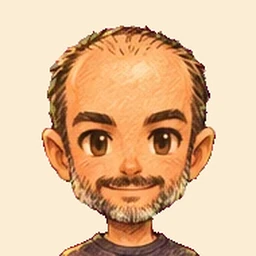
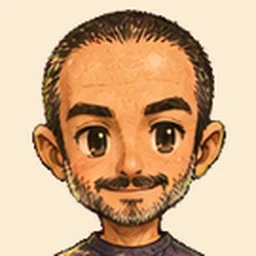
tomframes3: new walking face for Tom's plain dialogue portrait, no stretch fade
Claude-Session: https://claude.ai/code/session_01RXeukFUy1ZAKH1RRjtXyko

diff --git a/engine/overworld.js b/engine/overworld.js
@@ -27,7 +27,7 @@ function fitDialogText(full) {
 const DIALOG_PORTRAIT_IDS={'pip':'npc_pip','moss':'npc_moss','dot':'npc_dot','gus':'npc_gus','bean':'npc_bean','reel':'npc_reel','principal pruitt':'npc_pruitt','pruitt':'npc_pruitt','mr. delgado':'npc_delgado','mrs. kowalski':'npc_kowalski','grandpa ike':'npc_ike','mr. halverson':'npc_halverson','bun':'npc_bun','page':'npc_page','fern':'npc_fern','kit':'npc_kit','oolong':'npc_oolong','luna':'npc_luna','penny':'npc_penny','nickel':'npc_nickel','sal':'npc_sal','sol':'npc_sol','mrs. alvarez':'npc_alvarez','bernadette':'npc_bernadette','don beto':'npc_beto','bev':'npc_bev','boomie':'npc_boomie','doña carmen':'npc_carmen','chet':'npc_chet','claudia':'npc_claudia','daisy':'npc_daisy','dakota':'npc_dakota','dana':'npc_dana','dash':'npc_dash','dolores':'npc_dolores','jojo':'npc_jojo','jordan':'npc_jordan','juniper':'npc_juniper','kenji':'npc_kenji','kevin':'npc_kevin','kiki':'npc_kiki','larry':'npc_larry','marguerite':'npc_marguerite','marisol':'npc_marisol','marlowe':'npc_marlowe','mateo':'npc_mateo','michael':'npc_michael','miss odette':'npc_odette','priya':'npc_priya','ray':'npc_ray','ryan':'npc_ryan','sage':'npc_sage','sam':'npc_sam','skye':'npc_skye','sofi':'npc_sofi','toni':'npc_toni','tony':'npc_tony','vance':'npc_vance','julian vance':'npc_vance','long coat':'npc_vance','mr. washington':'npc_washington','wes':'npc_wes','yesenia':'npc_yesenia',tom:'tom',grace:'grace',rose:'rose',amy:'amy',justin:'justin',olivia:'olivia',deedee:'deedee',boppy:'boppy',tnb:'tnb',nara:'nara','aunt ellie':'ellie',ellie:'ellie','mudling':'foe_mudling','big mudling':'foe_mudling','skeeter swarm':'foe_skeeter','pond grump':'foe_grump','the big one':'foe_bigone','canyon coyote':'foe_coyote','smoglet':'foe_smoglet','ticket flurry':'foe_tickets','the big shake':'foe_bigshake','soggy sock':'foe_soggysock','tangle':'foe_tangle','snag':'foe_snag','old iron-gill':'foe_irongill','old ironbelly':'foe_ironbelly','wet blanket':'foe_wetblanket','the draft':'foe_thedraft','the picky eater':'foe_pickyeater','boom mic moth':'foe_boommoth','clapper snapper':'foe_clapper','cue card crab':'foe_cuecrab','the director’s cut':'foe_directorscut','the director':'foe_directorscut','chairman cheeks':'foe_chairman','cheek stuffer':'foe_cheekstuffer','peanut gallery':'foe_peanutgallery','twig spy':'foe_twigspy','dodgeball dread':'foe_dodgeball','glitter glue':'foe_glitterglue','tardy bell':'foe_tardybell','the red pen':'foe_redpen','the cliffhanger':'foe_cliffhanger','the know-it-all':'foe_knowitall','pop-up panic':'foe_popup','the unread':'foe_unread','the hanger-on':'foe_coathanger','the sore loser':'foe_soreloser','the wallflower':'foe_wallflower','the mirrorball':'foe_mirrorball','the long line':'foe_longline','the unclaimed':'foe_unclaimed','the armrest hog':'foe_armresthog','the last call':'foe_lastcall','gridlock prime':'foe_gridlockprime','final call':'foe_finalcall','standby sprite':'foe_standbysprite','hush-9':'foe_hush9final','drill worm':'foe_drillworm','oblivion censor':'foe_censor','forever engine':'foe_leviathan','brain freeze':'foe_brainfreeze','slushie slug':'foe_slushslug','sprinkle gremlin':'foe_gremlin','cone head':'foe_conehead','cone head b':'foe_conehead'};
 // People speak with a face cut from their walk sheet (portraits/talk/<id>.webp, tools/sprite-bake/bake_talk_faces.py) or, on a mood line, from their emotion
 // sheet (engine/emotions.js). Hero paintings (PORTRAITS) are for the status screen and battle menus only (Tom 2026-11-11). Monsters keep their foe_ crops.
-const TALK_V='tomframes2';
+const TALK_V='tomframes3';
 function dialogPortraitSrc(id) {
   if(!id) return '';
   if(id.startsWith('foe_')) return PORTRAITS[id]||'';

diff --git a/index.html b/index.html
@@ -1452,7 +1452,7 @@ html.landscape:not(.tablet):not(.duo) #battle.v2 .b2-x{font-size:17px}html.lands
 <script src="data/battle-icons.js?v=warmth1"></script>
 <script src="data/battle-emoji.js?v=warmth1"></script>
 <script src="engine/battle-pictures.js?v=b3s23a"></script>
-<script src="engine/overworld.js?v=tomframes2"></script>
+<script src="engine/overworld.js?v=tomframes3"></script>
 <script src="data/font.js"></script>
 <script src="data/overworld-sprites.js"></script>
 <script src="engine/tiles.js?v=tom4"></script>
@@ -1753,7 +1753,7 @@ html.landscape:not(.tablet):not(.duo) #battle.v2 .b2-x{font-size:17px}html.lands
 <script src="data/foes/acornagent-hires.js"></script>
 <script src="data/foes/extra-hires.js"></script>
 <script src="data/foes/use.js"></script>
-<script src="engine/town-render.js?v=tomstretch4"></script>
+<script src="engine/town-render.js?v=tomframes3"></script>
 <script src="engine/la-render.js"></script>
 <script src="engine/marsh-render.js"></script>
 <script src="engine/backlot-render.js"></script>
@@ -1768,7 +1768,7 @@ html.landscape:not(.tablet):not(.duo) #battle.v2 .b2-x{font-size:17px}html.lands
 <script src="data/hollow-trail.js?v=qa-coh03"></script>
 <script src="data/airport-behind.js?v=airport1"></script>
 <script src="engine/draw.js?v=qa-txt04"></script>
-<script src="engine/intro.js?v=tomstretch5"></script>
+<script src="engine/intro.js?v=tomframes3"></script>
 <script src="data/flight-art.js?v=flight14"></script>
 <script src="engine/flight-art.js?v=flight11"></script>
 <script src="engine/travel.js?v=reports-2026-11-21"></script>
@@ -1930,7 +1930,7 @@ html.landscape:not(.tablet):not(.duo) #battle.v2 .b2-x{font-size:17px}html.lands
 <script src="engine/emotions.js?v=tomstretch4"></script>
 <script src="engine/script-edits.js?v=scripted2"></script><!-- Script Editor overlay: Tom's line edits applied before a scene plays (script.html) --><!-- mood faces and poses in story dialogue (batch 0: chapter 1) -->
 <script src="engine/tapwalk.js?v=bossbig1"></script><!-- tap to walk -->
-<script src="data/build-history.js?v=vfxlib3"></script><!-- build names and times (tools/build_history.py) -->
+<script src="data/build-history.js?v=tomframes3"></script><!-- build names and times (tools/build_history.py) -->
 <script src="engine/build-history.js?v=buildpill1"></script><!-- build label on the welcome screen and menu, tap for the build history -->
 <script src="engine/m2-core.js?v=menucrease1"></script><!-- the main menu (menu1, the only menu since menu4) -->
 <script src="engine/m2-family.js?v=reports-2026-11-21c"></script><!-- its Family page -->
@@ -1940,7 +1940,7 @@ html.landscape:not(.tablet):not(.duo) #battle.v2 .b2-x{font-size:17px}html.lands
 <script src="engine/block-break.js?v=ch7t1"></script><!-- breaking an orange block: coin, cracks, colour ring, shrink-back, encounters off (ch6build stage 2) -->
 <script src="engine/scene-props.js?v=crispfix1"></script><!-- drawn stand-in props a scene can put on a map: the chart, Rose rolled up, the gold ball, bulbs (ch7build stage 2) -->
 <script src="engine/video-call.js?v=ch6s4"></script><!-- the video call at the end of chapter 6: Long Island seen from Tom's porch (ch6build stage 4) -->
-<script src="engine/main.js?v=vfxlib3"></script>
+<script src="engine/main.js?v=tomframes3"></script>
 <script src="engine/music.js"></script>
 <script src="data/songs.js"></script>
 <script src="engine/music-clips.js?v=adminvol1"></script>

diff --git a/engine/intro.js b/engine/intro.js
@@ -151,10 +151,8 @@ const STRETCH_SEQ=[['st_stiff',0],['st_rise',.1],['st_reach',.22],['st_bendl',.4
 function stretchStep() {
   return {t:0,start(){ this.t=0; this.s2=false; player.facing='down'; player.scenePose={f:'st_stiff'}; snd.stretch(); },
     update(dt){ this.t+=dt; if(!this.s2&&this.t>STRETCH_DUR*.75) { this.s2=true; snd.stretch(); }
-      const u=Math.min(1,this.t/STRETCH_DUR); let f='st_stiff',prev=null,at0=0,i=0; for(const [n,at] of STRETCH_SEQ) { if(u>=at) { prev=i?STRETCH_SEQ[i-1][0]:null; f=n; at0=at; } i++; }
-      // tomstretch4: each pose fades in over the first 0.015 of the stretch (about 40 ms; tomstretch5 cut it from 0.06 because it looked strange) (eased) on top of the one before it, so the poses run into each other (Tom 11-26: "merge seamlessly")
-      const m=Math.min(1,(u-at0)/.015),mix=m*m*(3-2*m);
-      player.scenePose=prev&&mix<1?{f,prev,mix}:{f};
+      const u=Math.min(1,this.t/STRETCH_DUR); let f='st_stiff'; for(const [n,at] of STRETCH_SEQ) if(u>=at) f=n;
+      player.scenePose={f};
       if(u>=1) { player.scenePose=null; return true; } return false; }};
 }
 // Little character sounds for the opening, built on the game's synth (tone and noise).

diff --git a/engine/town-render.js b/engine/town-render.js
@@ -110,11 +110,7 @@ function drawSheetActor(a,set) {
   activeTint=noTint?null:(m?garmentTint(bp?'bt':'ow',m.id,memberTopColor(m)):null);
   if(rider&&!painted) drawOwRider(rider,a.facing,cx,base-hk,true,k);
   activeTint=noTint?null:(m?garmentTint(bp?'bt':'ow',m.id,memberTopColor(m)):null);
-  const P0=a.scenePose,ga0=gfx.globalAlpha; let pb=null;
-  if(bp&&bp.story&&P0&&P0.prev&&P0.mix<1) { a.scenePose={f:P0.prev,mid:P0.mid,emo:P0.emo}; try { pb=scenePoseDraw(a,set,k); } finally { a.scenePose=P0; } }   // tomstretch4: the pose before, under the one fading in
-  if(pb) { const pw=pb.rows[0].length*kd,ph2=pb.rows.length*kd; drawSprite(pb.rows,pb.pal,cx-Math.floor(pw/2),Math.round(base-ph2),kd); gfx.globalAlpha=Math.max(.02,P0.mix); }
   drawSprite(fr,bp?bp.pal:set.pal,cx-Math.floor(wk/2),Math.round(base-hk),kd);
-  gfx.globalAlpha=ga0;
   if(rider&&!painted) drawOwRider(rider,a.facing,cx,base-hk,false,k);
   activeTint=null;
   if(lf&&lf.pip) drawLifePip(lf.pip,lf.pt,cx,base-hk,k);

diff --git a/data/build-history.js b/data/build-history.js
@@ -1,5 +1,6 @@
 // Generated by tools/build_history.py. Do not edit by hand. Newest first.
 const BUILD_HISTORY=[
+{"tag":"tomframes3","at":"2026-11-26T09:52:09-08:00","what":"Tom's plain dialogue face is the new walking face; the stretch fade is gone","card":"c-tomframes3","theme":"Characters"},
 {"tag":"vfxlib3","at":"2026-11-26T09:36:35-08:00","what":"The 22 library set-pieces are built, so all 37 Stage 2C library effects are drawn","card":"c-vfxlib3","theme":"Battle Animations"},
 {"tag":"tomstretch5","at":"2026-11-26T09:33:17-08:00","what":"The stretch's pose fade is about 4 times shorter","card":"c-tomstretch5","theme":"Characters"},
 {"tag":"openzoom1","at":"2026-11-26T09:23:23-08:00","what":"Chapter 1 opens with a camera zoom into the taxi company and a medium fade","card":"c-openzoom","theme":"Story and Dialogue"},

diff --git a/engine/main.js b/engine/main.js
@@ -110,7 +110,7 @@ startSplash();
   const d=document.createElement('button');
   d.type='button'; d.id='build-stamp'; d.setAttribute('aria-label','Build history');
   // On an iPhone Duo the stamp also shows the page size and pose the game measured, so Tom can read them back (docs/DUO.md).
-  d.textContent='build vfxlib3';
+  d.textContent='build tomframes3';
   const build=d.textContent,stamp=()=>{ const w=typeof buildWhenLabel==='function'?buildWhenLabel(build.slice(6)).slice(2):'', duo=typeof duoMode!=='undefined'&&duoMode.device?window.innerWidth+'x'+window.innerHeight+(duoMode.open?' duo open':' duo folded'):'';
     d.textContent=build; for(const t of [w,duo]) if(t){ const s=document.createElement('small'); s.textContent=t; d.appendChild(s); } };
   window.BUILD_TAG=build.slice(6);

diff --git a/tools/sprite-bake/bake_talk_faces.py b/tools/sprite-bake/bake_talk_faces.py
@@ -24,7 +24,7 @@ ROOT = EF.ROOT
 OUT = os.path.join(ROOT, 'portraits', 'talk')
 PAPER = EF.PAPER
 CAST = ['tom', 'tnb', 'grace', 'rose', 'amy', 'justin', 'olivia', 'deedee', 'boppy', 'ellie', 'nara']
-WALK_FRAMED = ['amy', 'olivia']   # cast whose new walk head is smaller than the hero's (hero ratios cut her chin off): framed on the walk frame like the townsfolk
+WALK_FRAMED = ['amy', 'olivia', 'tom']   # cast whose new walk head is smaller than the hero's (hero ratios cut her chin off): framed on the walk frame like the townsfolk
 IDS = CAST + EF.NPC_IDS
 HEAD_PAD = 1.18   # square side over hair-top-to-neck height
 TOP_GAP = 0.04    # paper above the hair, as a share of the side

diff --git a/docs/CHANGES.md b/docs/CHANGES.md
@@ -97,6 +97,10 @@ Card c-guidegen, batched by c-guideflow-7. USE THIS ONE in the Battle Guide (the
 - Getting hit (`body:tnb:hit`, rev 1): Wan job tnb-hit is now rev 1 (prompt file tools/art-library/prompts/wan-tnb-hit-v1.txt); clip tnb_hit cut (48 pictures, 0 to 94 step 2, 1.5x); script tag added to index.html; B3_BODY_CLIPS.tnb.hit = tnb_hit
 - Idle (standing and breathing) (`body:amy:idle`, rev 1): Wan job amy-idle is now rev 1 (prompt file tools/art-library/prompts/wan-amy-idle-v1.txt); clip amy_idle cut (50 pictures, 0 to 147 step 3, loop wrap); script tag added to index.html; B3_BODY_CLIPS.amy.idle = amy_idle (new owner row)
 
+## tomframes3 (2026-11-26): Tom's plain dialogue face is the new walking face; the stretch fade is gone
+
+Tom (11-26 09:49 and 09:50): "The old frames are still being used in the dialog portrait" and the stretch transition is "way too much". Fact: `portraits/talk/tom.webp` (the face on lines with no mood and no talking pose) still showed the old balding walking sheet (v3), because the first install baked it before the walk atlas was new. Rebaked from the new walk (v4) standing frame, framed from hair top to neck like Amy's and Olivia's (`WALK_FRAMED` in bake_talk_faces.py; the hero-ratio framing cut his chin). Stretch: the crossfade and its drawing code are removed (purged); poses change as cuts with no squash (the squash exemption for `st_` poses stays) and the 2.8 s length stays. Not changed: the feelings, tell, point, ask, answer and think faces (cut from sheets v8, v3 and the older singles).
+
 ## tomstretch5 (2026-11-26): the stretch's pose fade is about 4 times shorter
 
 Tom (11-26 09:33): the fade between stretch poses "looks very strange and psychedelic"; no jolts, or make it about 10 times more subtle. Kept: no squash or hop on stretch poses, the 2.8 s length. Changed: the fade window is 0.015 of the stretch (about 40 ms, three frames) instead of 0.06 (170 ms), so two poses no longer show through each other for long.
